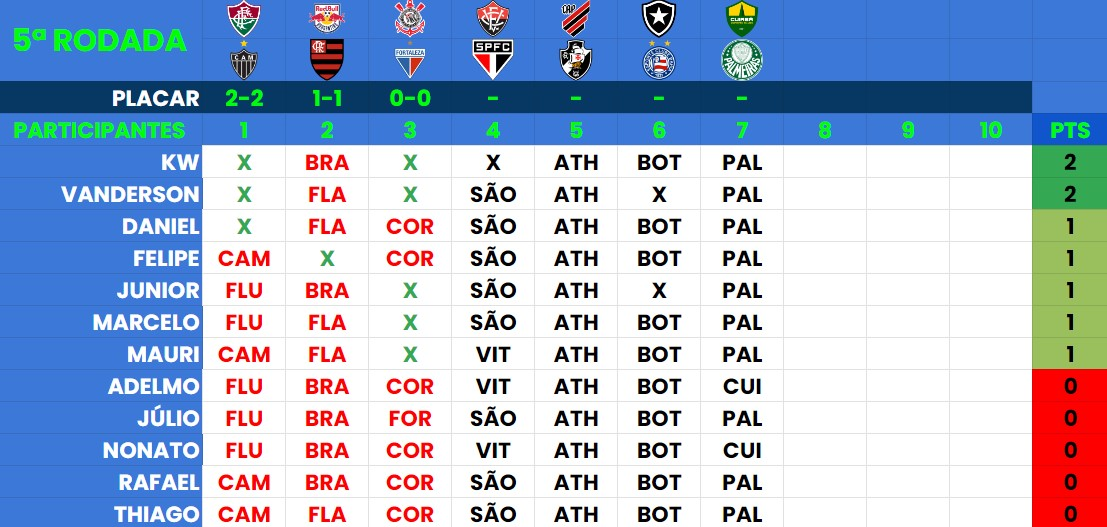
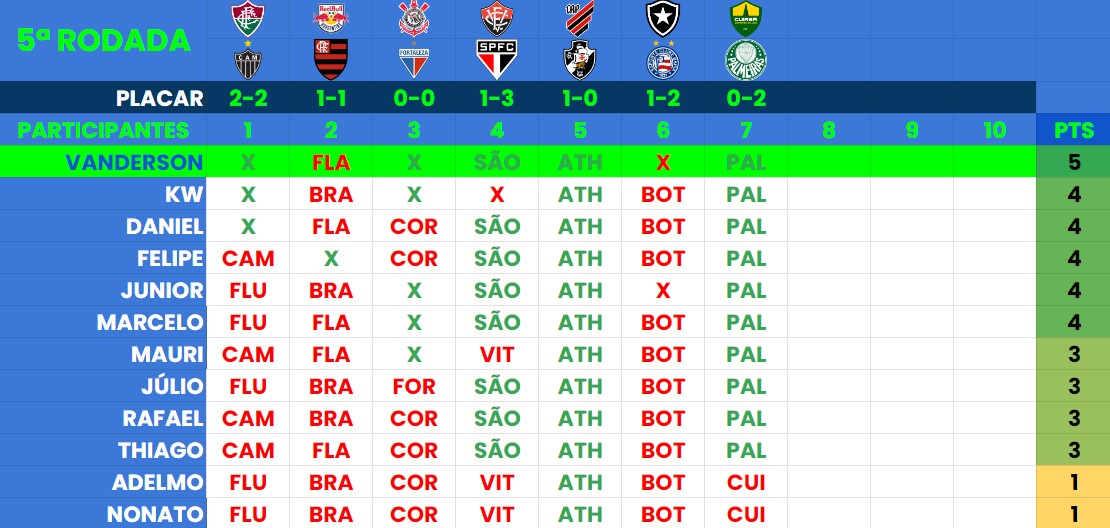
U

Changed region(s): [[0.0, 0.0, 1.0, 1.0]]

diff --git a/index.html b/index.html
@@ -51,10 +51,10 @@
           <img src="./assets/Round5.jpg" alt="Logo do Campeonato Brasileiro 2022" />
         </div>
         <div class="text">
-          <h2 class="title"><a href="./predictor.html">MERCADO FECHADO!</a>
+          <h2 class="title"><a href="./predictor.html">Vanderson vence a 5ª Rodada com cinco pontos</a>
           </h2>
           <p>
-            Acompanhem os resultados
+            Torcedor do Fortaleza faz cinco pontos e diminui a diferença na parte de baixo
           </p>
           <a class="button" href="./predictor.html">Resumão da 5ª Rodada</a>
         </div>
@@ -172,22 +172,22 @@
         <h3>Classificação dos jogadores</h3>
         <div class="list">
           <div class="imgBx">
-            <img src="./assets/fotos/santacruz.png">
+            <img src="./assets/fotos/bahia.png">
           </div>
           <div class="content">
             <h2 class="rank"><small>#</small>1</h2>
-            <h4>Adelmo</h4>
-            <p>22 Pontos</p>
+            <h4>Júnior</h4>
+            <p>24 Pontos</p>
           </div>
         </div>
         <div class="list">
           <div class="imgBx">
-            <img src="./assets/fotos/bahia.png">
+            <img src="./assets/fotos/santacruz.png">
           </div>
           <div class="content">
             <h2 class="rank"><small>#</small>2</h2>
-            <h4>Júnior</h4>
-            <p>20 Pontos</p>
+            <h4>Adelmo</h4>
+            <p>23 Pontos</p>
           </div>
         </div>
         <div class="list">
@@ -197,17 +197,7 @@
           <div class="content">
             <h2 class="rank"><small>#</small>3</h2>
             <h4>KW</h4>
-            <p>19 Pontos</p>
-          </div>
-        </div>
-        <div class="list">
-          <div class="imgBx">
-            <img src="./assets/fotos/fortaleza.png">
-          </div>
-          <div class="content">
-            <h2 class="rank"><small>#</small>4</h2>
-            <h4>Júlio</h4>
-            <p>19 Pontos</p>
+            <p>23 Pontos</p>
           </div>
         </div>
         <div class="list">
@@ -215,9 +205,19 @@
             <img src="./assets/fotos/corinthians.png">
           </div>
           <div class="content">
-            <h2 class="rank"><small>#</small>5</h2>
+            <h2 class="rank"><small>#</small>4</h2>
             <h4>Daniel</h4>
-            <p>19 Pontos</p>
+            <p>23 Pontos</p>
+          </div>
+        </div>
+        <div class="list">
+          <div class="imgBx">
+            <img src="./assets/fotos/fortaleza.png">
+          </div>
+          <div class="content">
+            <h2 class="rank"><small>#</small>5</h2>
+            <h4>Júlio César</h4>
+            <p>22 Pontos</p>
           </div>
         </div>
         <div class="list">
@@ -227,7 +227,7 @@
           <div class="content">
             <h2 class="rank"><small>#</small>6</h2>
             <h4>Marcelo</h4>
-            <p>18 Pontos</p>
+            <p>22 Pontos</p>
           </div>
         </div>
         <div class="list">
@@ -237,7 +237,7 @@
           <div class="content">
             <h2 class="rank"><small>#</small>7</h2>
             <h4>Felipe</h4>
-            <p>18 Pontos</p>
+            <p>22 Pontos</p>
           </div>
         </div>
         <div class="list">
@@ -247,7 +247,7 @@
           <div class="content">
             <h2 class="rank"><small>#</small>8</h2>
             <h4>Rafael</h4>
-            <p>17 Pontos</p>
+            <p>20 Pontos</p>
           </div>
         </div>
         <div class="list">
@@ -256,18 +256,8 @@
           </div>
           <div class="content">
             <h2 class="rank"><small>#</small>9</h2>
-            <h4>Nonato</h4>
-            <p>17 Pontos</p>
-          </div>
-        </div>
-        <div class="list">
-          <div class="imgBx">
-            <img src="./assets/fotos/ceará.png">
-          </div>
-          <div class="content">
-            <h2 class="rank"><small>#</small>10</h2>
             <h4>Thiago</h4>
-            <p>17 Pontos</p>
+            <p>20 Pontos</p>
           </div>
         </div>
         <div class="list">
@@ -275,9 +265,19 @@
             <img src="./assets/fotos/fortaleza.png">
           </div>
           <div class="content">
-            <h2 class="rank"><small>#</small>11</h2>
+            <h2 class="rank"><small>#</small>10</h2>
             <h4>Mauri</h4>
-            <p>16 Pontos</p>
+            <p>19 Pontos</p>
+          </div>
+        </div>
+        <div class="list">
+          <div class="imgBx">
+            <img src="./assets/fotos/ceará.png">
+          </div>
+          <div class="content">
+            <h2 class="rank"><small>#</small>11</h2>
+            <h4>Nonato</h4>
+            <p>18 Pontos</p>
           </div>
         </div>
         <div class="list">
@@ -287,7 +287,7 @@
           <div class="content">
             <h2 class="rank"><small>#</small>12</h2>
             <h4>Vanderson</h4>
-            <p>11 Pontos</p>
+            <p>16 Pontos</p>
           </div>
         </div>
       </div>
